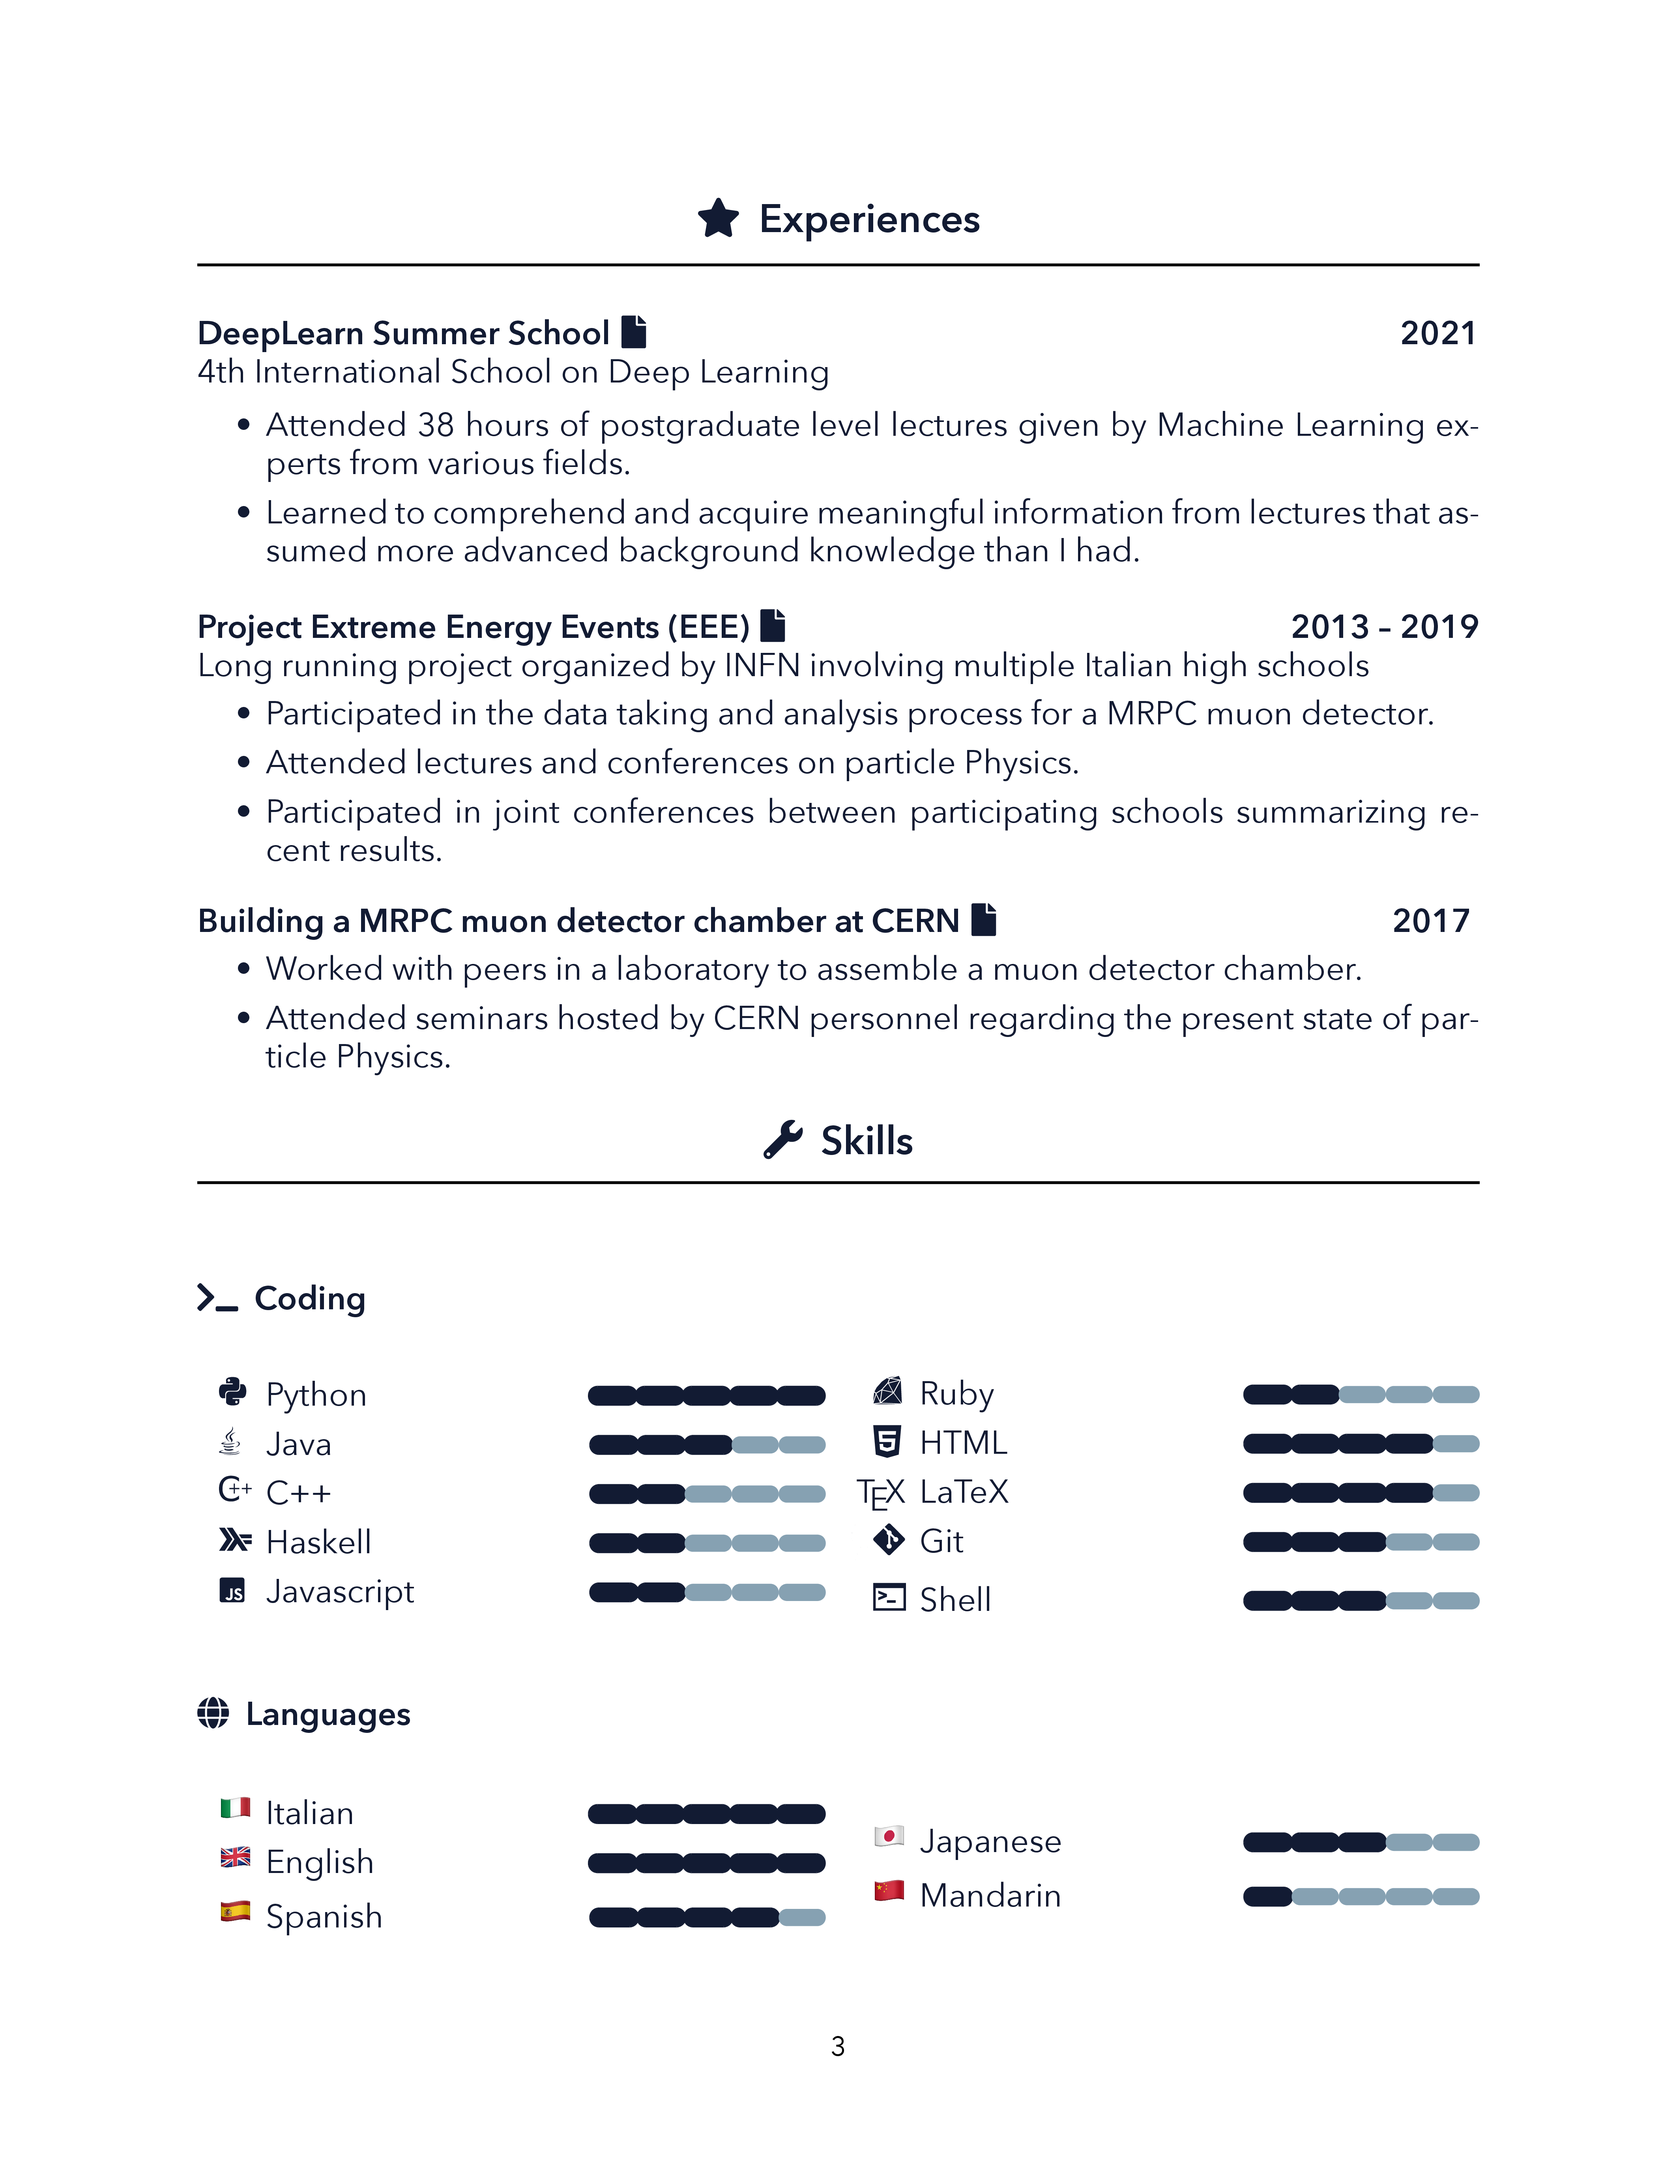
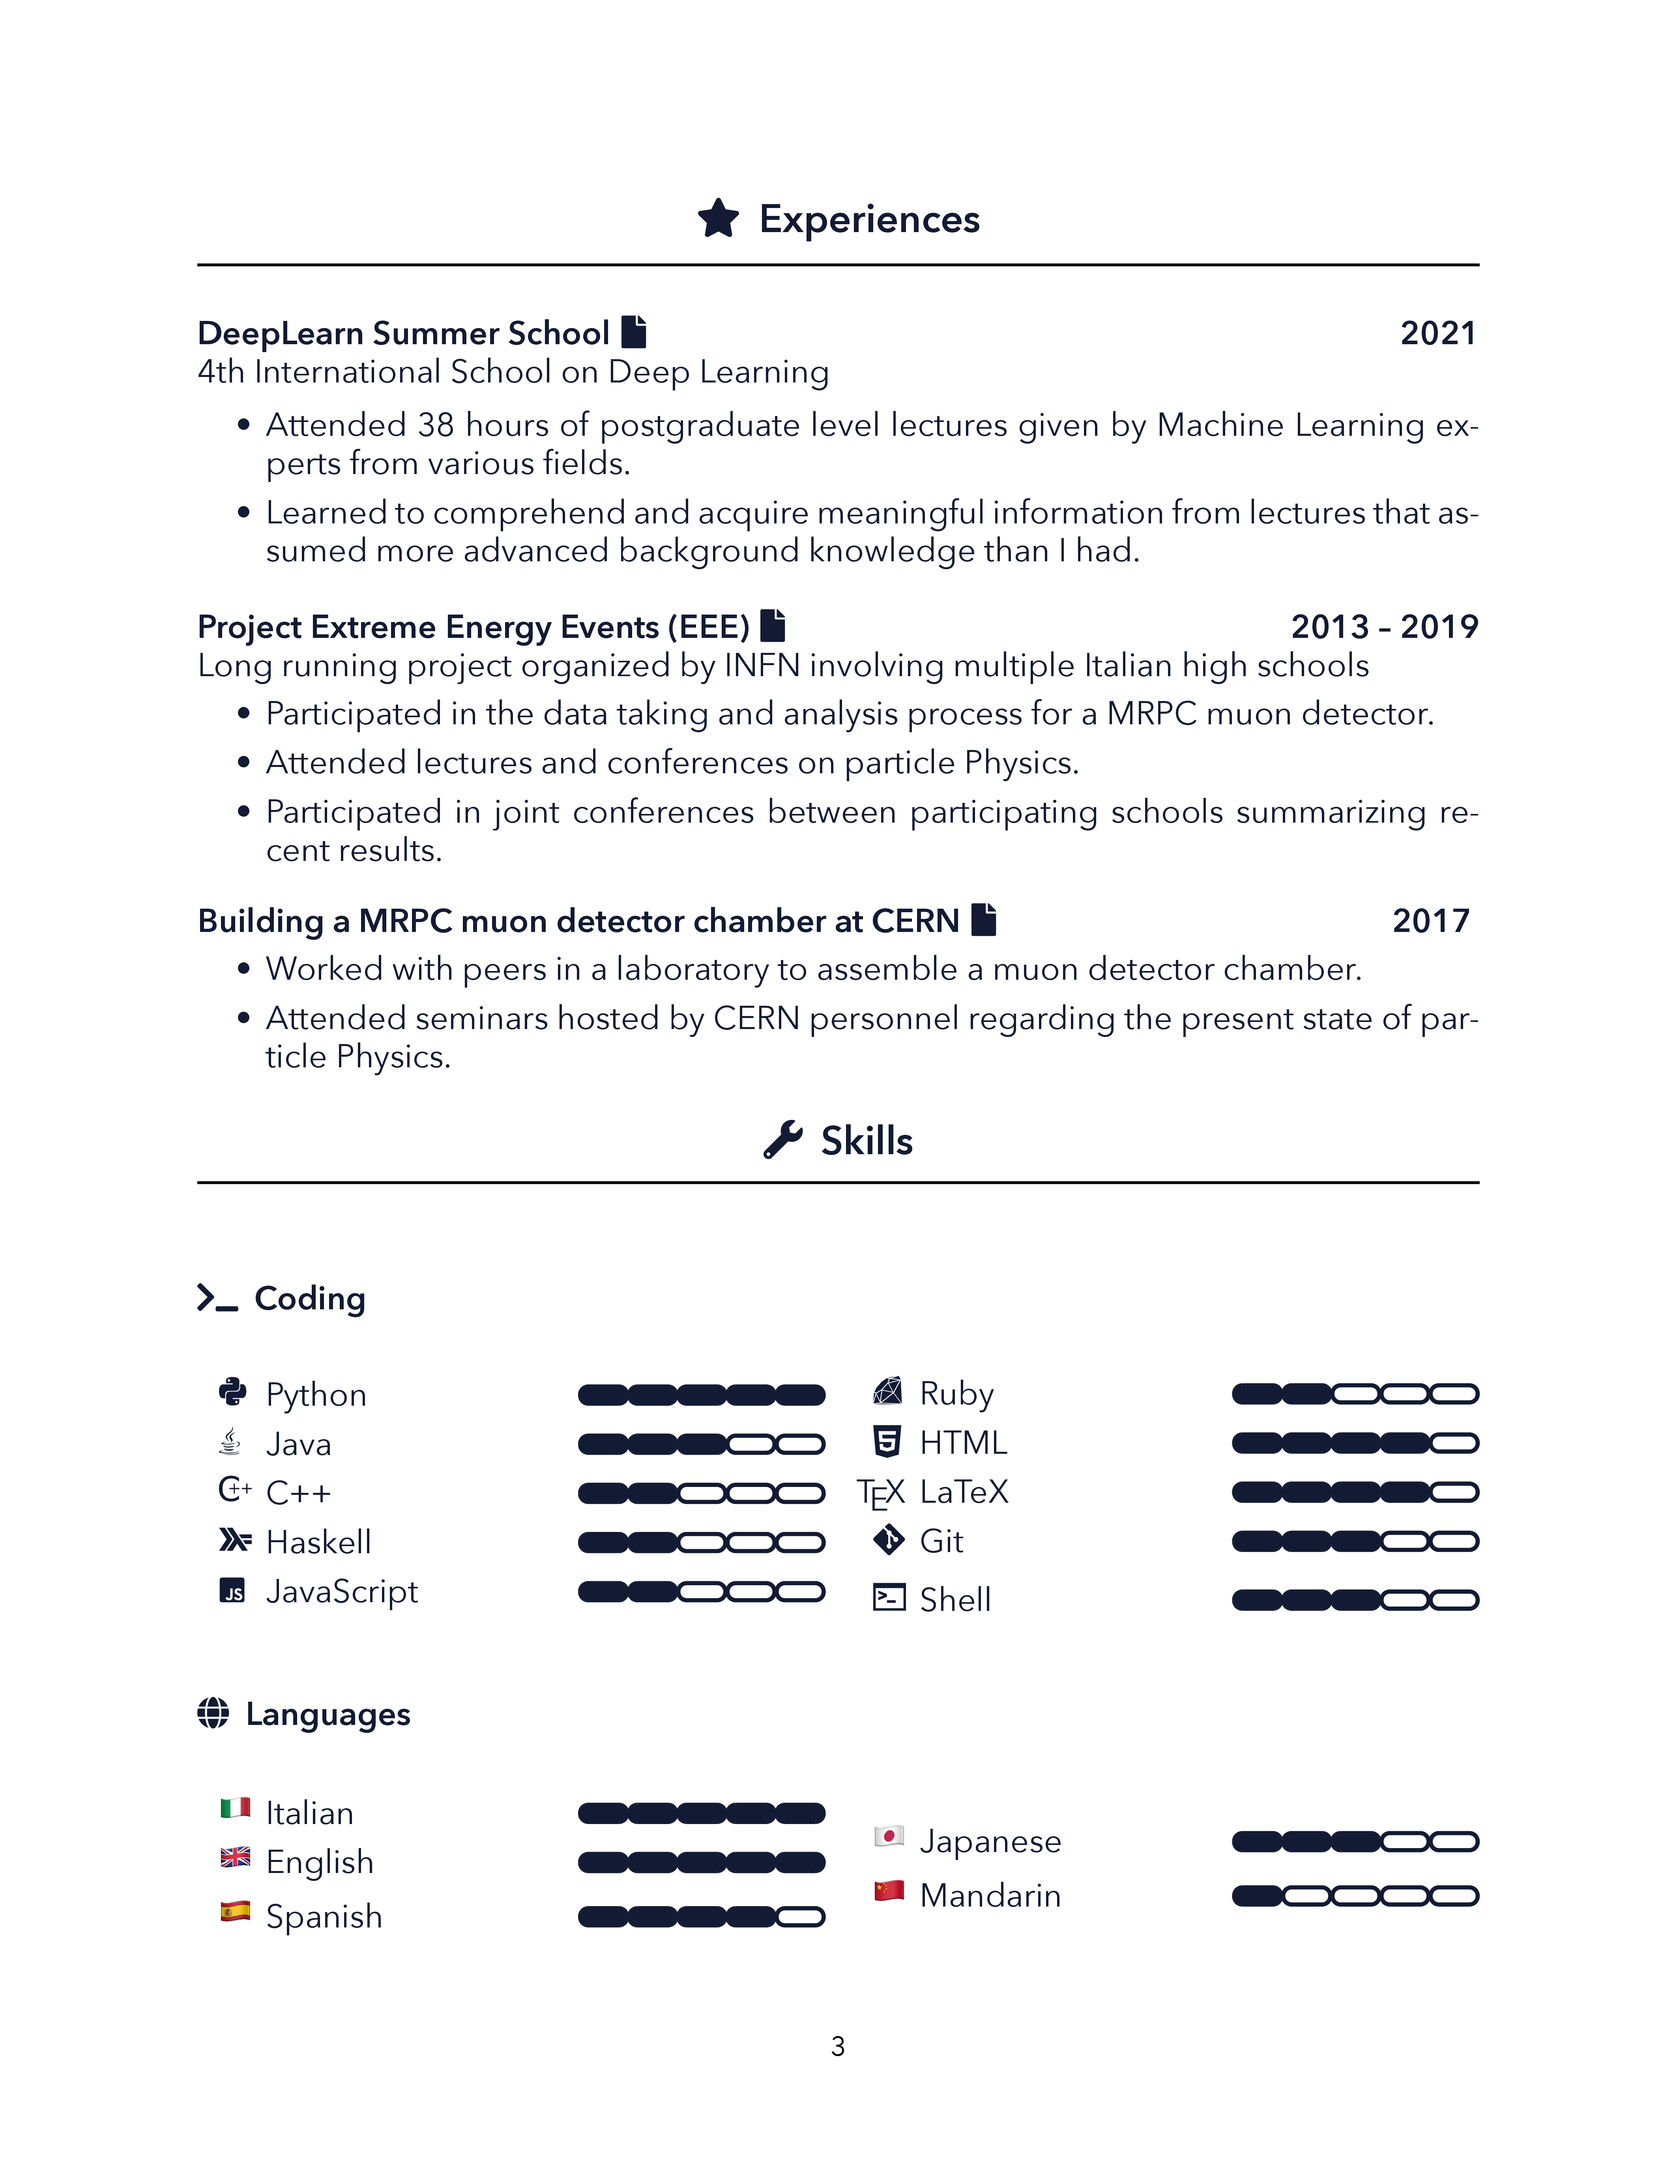
Modified files

diff --git a/prelude.tex b/prelude.tex
@@ -107,11 +107,12 @@
   \begin{tikzpicture}[scale=0.55, transform shape, minimum width=5mm, minimum height=2mm]
     \foreach \x in {1,2,3,4,5}{
       \ifnum\x>#1
-        \draw [draw=skillEmpty, fill=none, line width=1.5pt, rounded corners=3pt] (\x*1.1-1.1,0) rectangle (\x*1.1,0.4);
+        \draw [draw=skillEmpty, fill=none, line width=1.5pt, rounded corners=3pt] (\x*1.15-1.15,0) rectangle (\x*1.15-0.05,0.4);
       \else
-        \draw [draw=skillFull, fill=skillFull, line width=1.5pt, rounded corners=3pt] (\x*1.1-1.1,0) rectangle (\x*1.1,0.4);
+        \draw [draw=skillFull, fill=skillFull, line width=1.5pt, rounded corners=3pt] (\x*1.15-1.15,0) rectangle (\x*1.15-0.05,0.4);
       \fi
     }
   \end{tikzpicture}
 }
+
 

diff --git a/README.md b/README.md
@@ -4,3 +4,7 @@ This is the LaTeX project for my CV.
 
 ## PNG preview:
 
+![Page 1](png/CurriculumVitae-0.png)
+![Page 2](png/CurriculumVitae-1.png)
+![Page 3](png/CurriculumVitae-2.png)
+![Page 4](png/CurriculumVitae-3.png)
